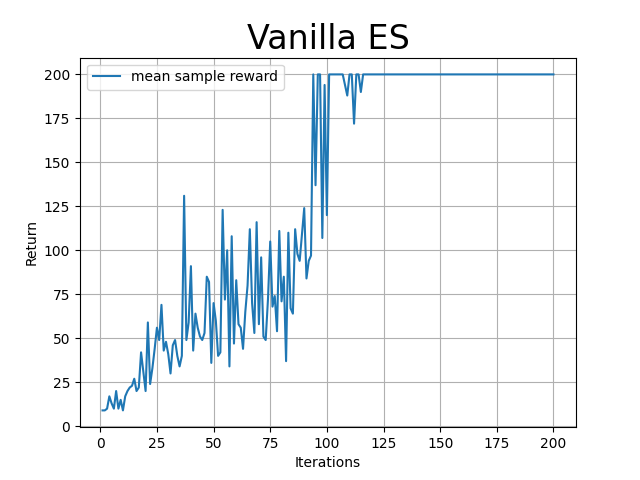
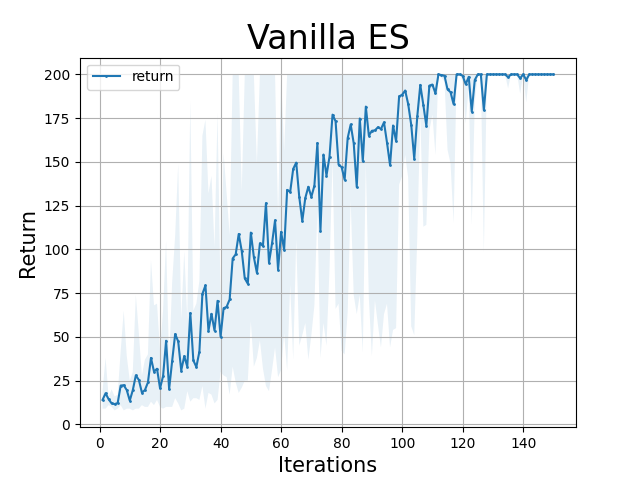
add more polished plots

Changed region(s): [[0.0312, 0.125, 0.9062, 1.0], [0.0625, 0.4062, 0.125, 0.4375], [0.0625, 0.3125, 0.0938, 0.375]]

diff --git a/es.py b/es.py
@@ -51,115 +51,61 @@ def AT_gradient(theta, F, sigma=1, N=100):
   fn = lambda x: (F(theta + sigma * x) - F(theta - sigma * x)) * x
   return np.mean(np.array(list(map(fn, epsilons))), axis=0)/sigma/2
     
-def gradascent(theta0, F, method=None, eta=1e-2, max_epoch=200):
+def gradascent(theta0, F, method=None, eta=1e-2, max_epoch=200, N=100):
   theta = np.copy(theta0)
   accum_rewards = np.zeros(max_epoch)
-  for i in tqdm.tqdm(range(max_epoch)):
+  for i in range(max_epoch):
     accum_rewards[i] = F(theta)
     print("The return for episode {0} is {1}".format(i, accum_rewards[i]))
     if method == "FD":
-      theta += eta * FD_gradient(theta, F, sigma=1, N=100)
+      theta += eta * FD_gradient(theta, F, N=N)
     elif method == "AT":
-      theta += eta * AT_gradient(theta, F, sigma=1, N=100)
+      theta += eta * AT_gradient(theta, F, N=N)
     else: #vanilla
-      theta += eta * vanilla_gradient(theta, F, sigma=1, N=100)
+      theta += eta * vanilla_gradient(theta, F, N=N)
   return theta, accum_rewards
 
 """The cell below applies your CMA-ES implementation to the RL objective you've defined in the cell above."""
 if __name__ == '__main__':
   env = gym.make('CartPole-v0')
   fn_with_env = functools.partial(rl_fn, env=env)
-  theta0 = np.random.multivariate_normal(np.zeros(5), np.identity(5))
+  num_seeds = 5
+  max_epoch = 150
+  N = 20
+  res = np.zeros((num_seeds, max_epoch))
+  method = "V"
 
-  # epsilons = np.random.multivariate_normal(np.zeros(5), np.identity(5), size=2)
-  # print(epsilons)
-  # fn = lambda x: fn_with_env(theta0 + x) * x
-  # print(fn_with_env(theta0 + epsilons[0]) * epsilons[0])
-  # print(np.array(list(map(fn, epsilons))))
+  for k in tqdm.tqdm(range(num_seeds)):
+    theta0 = np.random.multivariate_normal(np.zeros(5), np.identity(5))
+
+    # epsilons = np.random.multivariate_normal(np.zeros(5), np.identity(5), size=2)
+    # print(epsilons)
+    # fn = lambda x: fn_with_env(theta0 + x) * x
+    # print(fn_with_env(theta0 + epsilons[0]) * epsilons[0])
+    # print(np.array(list(map(fn, epsilons))))
   
-  theta, accum_rewards = gradascent(theta0, fn_with_env, method="FD")
+    theta, accum_rewards = gradascent(theta0, fn_with_env, method=method, max_epoch=max_epoch, N=N)
+    res[k] = np.array(accum_rewards)
+  ns = range(1, len(accum_rewards)+1)
+
+  avs = np.mean(res, axis=0)
+  maxs = np.max(res, axis=0)
+  mins = np.min(res, axis=0)
   
-  plt.plot(range(1, len(accum_rewards)+1), accum_rewards, label='return')
-  #plt.plot(range(1, len(best_sample_vec)+1), best_sample_vec, label='best sample reward')
+  plt.fill_between(ns, mins, maxs, alpha=0.1)
+  plt.plot(ns, avs, '-o', markersize=1, label='return')
+
   plt.legend()
   plt.grid(True)
-  plt.xlabel('Iterations')
-  plt.ylabel('Return')
+  plt.xlabel('Iterations', fontsize = 15)
+  plt.ylabel('Return', fontsize = 15)
 
-  plt.title("FD ES", fontsize = 24)
-  plt.savefig("plots/FD ES.png")
-  #plt.title("Vanilla ES", fontsize = 24)
-  #plt.savefig("plots/Vanilla ES.png")
-  
-  """
-  r_vec = [fn_with_env(np.ones(5)) for _ in tqdm.trange(1000)]
-
-  2 * np.array(r_vec).reshape((10, -1)).mean(axis=0).std()
-
-
-
-  np.mean(r_vec), np.std(r_vec)
-
-  np.mean(r_vec), np.std(r_vec)
-
-  def _sigmoid(x):
-    return 1 / (1 + np.exp(-x))
-
-  def _get_action(s, params):
-    w = params[:4]
-    b = params[4]
-    p_left = _sigmoid(w @ s + b)
-    a = np.random.choice(2, p=[p_left, 1 - p_left])
-    return a
-
-  def rl_fn(params, env):
-    assert len(params) == 5
-    reward = []
-    s = env.reset()
-    a = _get_action(s, params)
-    obs, r, done, info = env.step(a)
-    reward.append(r)
-    while (done == False):
-      obs, r, done, info = env.step(a)
-      reward.append(r)
-      a = _get_action(s, params)
-    # get actions given params
-    # step in environment until end of episode
-    # record total undiscounted reward
-    total_reward = sum(reward)
-    return total_reward
-
-  # env = gym.make('CartPole-v0')
-  # fn_with_env = functools.partial(rl_fn, env=env)
-
-  rewards = []
-  for i in range(1000):
-    r = fn_with_env(-np.ones(5))
-    rewards.append(r)
-  print(sum(rewards)/1000)
-
-  rewards = []
-  for i in range(1000):
-    r = fn_with_env([1, 0, 1, 0, 1])
-    rewards.append(r)
-  print(sum(rewards)/1000)
-
-  rewards = []
-  for i in range(1000):
-    r = fn_with_env([0, 1, 2, 3, 4])
-    rewards.append(r)
-  print(sum(rewards)/1000)
-
-  N = 1000
-  l = 20
-  sample_means = np.zeros(N)
-  for i in range(N):
-    x = np.zeros(l)
-    for j in range(l):
-      x[j] = np.max(np.random.normal(size=10) + 1.0)
-    sample_means[i] = np.mean(x)
-
-  np.mean(sample_means)
-
-  np.std(sample_means)
-  """
+  if method == "FD":
+    plt.title("FD ES", fontsize = 24)
+    plt.savefig("plots/FD ES.png")
+  elif method == "AT":
+    plt.title("AT ES", fontsize = 24)
+    plt.savefig("plots/AT ES.png")
+  else:
+    plt.title("Vanilla ES", fontsize = 24)
+    plt.savefig("plots/Vanilla ES.png")
